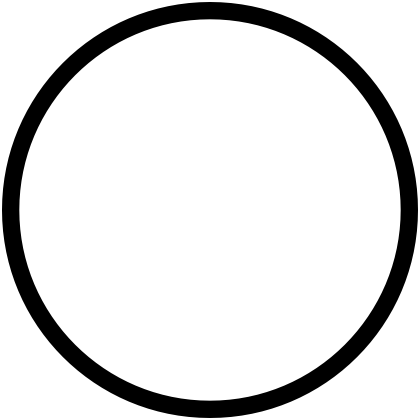
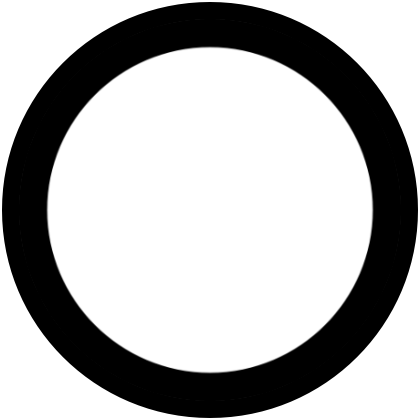
Add event-listener to boardContainer to make moves
One game round is now player fully via gui

Changed region(s): [[0.031, 0.031, 0.9595, 0.9595]]

diff --git a/tic-tac-toe.js b/tic-tac-toe.js
@@ -252,7 +252,7 @@ let gameboard = (() => {
                 stateInfo.currentTurn = whoseTurn();
                 break;
             case states.ROUND_END:
-                stateInfo.roundWinner = lastRoundWinner.getState();
+                stateInfo.roundWinner = (lastRoundWinner) ? lastRoundWinner.getState() : null;
                 break;
             case states.MATCH_END:
                 stateInfo.matchWinner = (matchWinner) ? matchWinner.getState() : null;
@@ -271,32 +271,44 @@ let gameboard = (() => {
 
 // View
 let boardRenderer = (() => {
-    let boardContainer, scoresContainer, gameController;
+    let gameController;
+
+    let containers = {
+        naming: null,
+        board: null,
+        scores: null,
+        results: null,
+    };
+    
     let lastRenderedGrid = [];
     const crossImgPath = './img/cross.png';
     const circleImgPath = './img/circle.png';
     const emptyImgPath = './img/nothing.png';
 
-    let initialize = (givenBoardContainer, givenScoresContainer, givenGameController) => {
-        boardContainer = givenBoardContainer;
-        scoresContainer = givenScoresContainer;
+    let initialize = (givenGameController, givenContainers) => {
         gameController = givenGameController;
-        boardContainer.innerHTML = "";
-        scoresContainer.innerHTML = "";
+        
+        const {naming, board, scores, results} = givenContainers;
+        containers = {naming, board, scores, results};
+        
+        // containers.naming.innerHTML = "";
+        // containers.board.innerHTML = "";
+        // containers.scores.innerHTML = "";
+        // containers.results.innerHTML = "";
 
         for(let i = 0; i < GRID_SIZE ** 2; i++)
-            boardContainer.append(createGridCell(null));
+            containers.board.append(createGridCell(null));
 
         lastRenderedGrid = new Array(GRID_SIZE).fill(null).map(() => new Array(GRID_SIZE).fill(null));
 
-        boardContainer.addEventListener('click', (e) => {
+        containers.board.addEventListener('click', (e) => {
             if (e.target.classList.contains('filled') || e.target.parentElement.classList.contains('filled'))
                 return;
 
-            let cellBtnList = boardContainer.querySelectorAll('button');
+            let cellBtnList = containers.board.querySelectorAll('button');
             cellBtnList = [...cellBtnList];
             for (let i = 0; i < cellBtnList.length; i++) {
-                if(e.target === cellBtnList[i] || e.target.parentElement === cellBtnList[i]){
+                if (e.target === cellBtnList[i] || e.target.parentElement === cellBtnList[i]) {
                     let row = Math.floor(i / GRID_SIZE);
                     let col = i % GRID_SIZE;
                     gameController.cellClicked(row, col);
@@ -344,16 +356,20 @@ let boardRenderer = (() => {
             for(let j = 0; j < GRID_SIZE; j++)
                 if(grid[i][j] !== lastRenderedGrid[i][j]){
                     let cellNumber = (i * GRID_SIZE) + j + 1;
-                    let oldCell = boardContainer.querySelector(`div:nth-child(${cellNumber})`);
+                    let oldCell = containers.board.querySelector(`div:nth-child(${cellNumber})`);
                     let newCell = createGridCell(grid[i][j]);
 
-                    boardContainer.insertBefore(newCell, oldCell);
+                    containers.board.insertBefore(newCell, oldCell);
                     oldCell.remove();
                 }
         
-        lastRenderedGrid = grid;
+        // assign a deep copy of grid
+        for(let i = 0; i < lastRenderedGrid.length; i++){
+            lastRenderedGrid[i] = grid[i].slice();
+        }
 
         if (CONSOLE_OUTPUT) {
+            console.log(`----------`);
             for (let row of grid) {
                 let printableRow = row.map(cell => {
                     if (cell === null) return `[ ]`;
@@ -372,11 +388,11 @@ let boardRenderer = (() => {
         //     <p>[score]</p>
         // </div>
 
-        scoresContainer.innerHTML = "";
+        containers.scores.innerHTML = "";
 
         let headingPara = document.createElement('p');
         headingPara.textContent = 'Scores';
-        scoresContainer.append(headingPara);
+        containers.scores.append(headingPara);
 
         for(let player in playersInfo){
             let playerScoreDiv = document.createElement('div');
@@ -391,41 +407,71 @@ let boardRenderer = (() => {
             scorePara.textContent = playersInfo[player].score;
             playerScoreDiv.append(markImg, namePara, scorePara);
             
-            scoresContainer.append(playerScoreDiv);
+            containers.scores.append(playerScoreDiv);
+        }
+    }
+
+    let renderNaming = () => {
+        let players = {
+            A: {name: prompt(`Write player A's name:`, 'Player A')},
+            B: {name: prompt(`Write player B's name:`, 'Player B')},
+        }
+        let rounds = prompt(`How many rounds?`, 2);
+        gameController.startMatch(players, rounds);
+    }
+
+    let renderResults = (gameState) => {
+
+    }
+
+    // public
+    return {initialize, renderBoard, renderScores, renderResults, renderNaming};
+})();
+
+// controller
+let gameController = (() => {
+    let gameboard, boardRenderer;
+
+    let initialize = (givenGameboard, givenBoardRenderer) => {
+        gameboard = givenGameboard;
+        boardRenderer = givenBoardRenderer;
+
+        // initialize view
+        let containers = {
+            naming: null,
+            board: document.querySelector('#board-container'),
+            scores: document.querySelector('#score-container'),
+            results: null,
+        };
+        boardRenderer.initialize(gameController, containers);
+        
+        // start off the game's flow with the naming
+        boardRenderer.renderNaming();
+    }
+
+    let startMatch = (playersInfo, rounds) => {
+        gameboard.initializeMatch(playersInfo, rounds);
+        let gameState = gameboard.getGameState();
+        boardRenderer.renderScores(gameState.players);
+    }
+
+    let cellClicked = (row, col) => {
+        gameboard.makeMove(row, col);
+
+        let gameState = gameboard.getGameState();
+        boardRenderer.renderBoard(gameState.grid);
+        if(gameState.state === `ROUND_END`){
+            boardRenderer.renderScores(gameState.players);
+            boardRenderer.renderResults(gameState);
         }
     }
 
     // public
-    return {initialize, renderBoard, renderScores};
+    return {initialize, startMatch, cellClicked};
 })();
 
-// initialize view
-let boardContainer = document.querySelector('#board-container');
-let scoresContainer = document.querySelector('#score-container');
-boardRenderer.initialize(boardContainer, scoresContainer);
-// initialize model
-gameboard.initializeMatch({A:{name: "David"}, B:{name: "Toptonov"}}, 5);
 
 
-// manually play game
-gameboard.makeMove(0, 0);
-gameboard.makeMove(1, 0);
-gameboard.makeMove(1, 1);
-gameboard.makeMove(2, 1);
-gameboard.makeMove(2, 2);
-boardRenderer.renderScores(gameboard.getGameState().players);
-boardRenderer.renderBoard(gameboard.getGameState().grid);
 
-gameboard.nextRound();
-
-gameboard.makeMove(0, 2);
-gameboard.makeMove(1, 0);
-gameboard.makeMove(1, 2);
-gameboard.makeMove(2, 1);
-gameboard.makeMove(2, 2);
-boardRenderer.renderScores(gameboard.getGameState().players);
-boardRenderer.renderBoard(gameboard.getGameState().grid);
-
-gameboard.nextRound();
-
-console.log(gameboard.getGameState().state);
+// initialize controller
+gameController.initialize(gameboard, boardRenderer);

diff --git a/index.html b/index.html
@@ -8,20 +8,7 @@
     <link rel="stylesheet" href="./styles.css">
 </head>
 <body>
-    <header id="score-container">
-        
-    </header>
-    <main id="board-container">
-        <div><button class="grid-cell"><img src="./img/nothing.png" alt=""></button></div>
-        <div><button class="grid-cell"><img src="./img/nothing.png" alt=""></button></div>
-        <div><button class="grid-cell"><img src="./img/nothing.png" alt=""></button></div>
-        <div><button class="grid-cell"><img src="./img/nothing.png" alt=""></button></div>
-        <div><button class="grid-cell"><img src="./img/nothing.png" alt=""></button></div>
-        <div><button class="grid-cell"><img src="./img/nothing.png" alt=""></button></div>
-        <div><button class="grid-cell"><img src="./img/nothing.png" alt=""></button></div>
-        <div><button class="grid-cell"><img src="./img/nothing.png" alt=""></button></div>
-        <div><button class="grid-cell"><img src="./img/nothing.png" alt=""></button></div>
-    </main>
-    
+    <header id="score-container"></header>
+    <main id="board-container"></main>
 </body>
 </html>